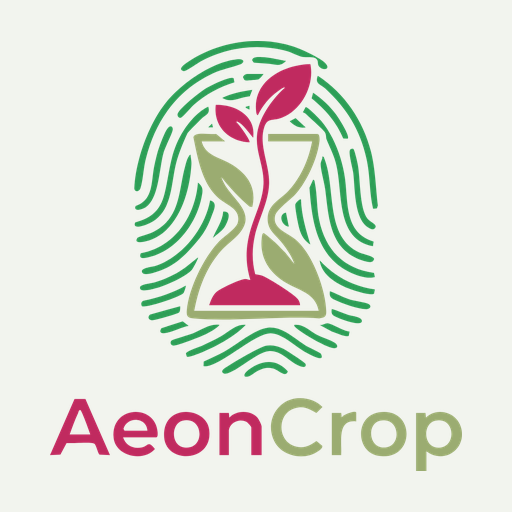
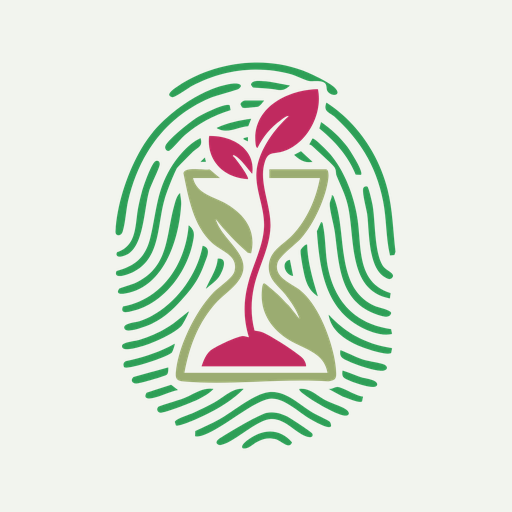
AeonCrop: sin carpetas repetidas en Drive; ícono sin letras e instalador «AeonCrop»
- Buscar-o-crear carpetas de a una en toda la app (subidas, sincronización y «sincronizar
  todo» creaban copias a la vez); las copias que ya existen se juntan solas en la más
  antigua (con sus subcarpetas) y la vacía va a la papelera.
- Cada conexión con Drive queda atada a su cultivo: «sincronizar todo» ya no puede mandar
  lo de un cultivo a la carpeta de otro.
- Ícono del teléfono: la huella y el reloj de arena, sin el nombre.
- Instalador AeonCrop-<versión>.apk (artefacto «aeoncrop-apk»).

Claude-Session: https://claude.ai/code/session_01AQtHHbNtiHMaVCGrhptX3t

Changed region(s): [[0.0938, 0.0625, 0.9062, 0.9375]]

diff --git a/tools/render_aeon_icon.js b/tools/render_aeon_icon.js
@@ -1,0 +1,22 @@
+// tools/render_aeon_icon.js — ícono de AeonCrop para el teléfono: la huella y el reloj de
+// arena con la planta, SIN el nombre (el logo con letras queda dentro de la app).
+//   node tools/render_aeon_icon.js <salida.png> [lado=1024]
+const { chromium } = require("playwright");
+const fs = require("fs");
+const path = require("path");
+(async () => {
+  const [out, N = 1024] = process.argv.slice(2);
+  const svg = fs.readFileSync(path.join(__dirname, "..", "assets", "src", "AeonCrop.svg"), "utf8");
+  const b = await chromium.launch();
+  const p = await b.newPage({ viewport: { width: Number(N), height: Number(N) } });
+  await p.setContent(`<html><body style="margin:0;background:transparent">${svg}</body></html>`);
+  await p.evaluate((N) => {
+    const s = document.querySelector("svg");
+    for (const el of s.querySelectorAll("path,polygon")) if (el.getBBox().y > 175) el.remove();   // el nombre
+    const bb = s.getBBox(), side = Math.max(bb.width, bb.height) * 1.06;
+    s.setAttribute("viewBox", `${bb.x + bb.width / 2 - side / 2} ${bb.y + bb.height / 2 - side / 2} ${side} ${side}`);
+    s.setAttribute("width", N); s.setAttribute("height", N);
+  }, Number(N));
+  await p.screenshot({ path: out, omitBackground: true });
+  await b.close();
+})();

diff --git a/drive_backup.py b/drive_backup.py
@@ -28,6 +28,7 @@ from platform_utils import IS_ANDROID
 
 SCOPE = "https://www.googleapis.com/auth/drive.file"
 ROOT_FOLDER = "PhenoRubus · Imágenes de Fenología"   # raíz antigua (hasta la 1.1.151)
+_FOLDER_LOCK = threading.RLock()     # buscar-o-crear carpetas: de a una (ver _folder)
 FOLDER_MIME = "application/vnd.google-apps.folder"
 API = "https://www.googleapis.com/drive/v3/files"
 UPLOAD = "https://www.googleapis.com/upload/drive/v3/files?uploadType=multipart&fields=id"
@@ -346,8 +347,12 @@ def is_metered() -> bool:
 class DriveBackup:
     TOKEN_TTL = 45 * 60
 
-    def __init__(self, db, authorizer=None, transport=None, metered=is_metered):
+    def __init__(self, db, authorizer=None, transport=None, metered=is_metered, crop=None):
+        import crops
         self.db = db
+        # El cultivo queda fijo: aunque luego se active otro (sincronizar todo), lo de esta
+        # base va siempre a la carpeta de SU módulo.
+        self.crop = crop or crops.current()
         self._authorizer = authorizer
         self.transport = transport or urllib_transport
         self.metered = metered
@@ -686,32 +691,40 @@ class DriveBackup:
         key = f"{parent or 'root'}/{name}"
         if key in cache:
             return cache[key]
-        esc = name.replace("\\", "\\\\").replace("'", "\\'")
-        q = f"name='{esc}' and mimeType='{FOLDER_MIME}' and trashed=false"
-        if parent:
-            q += f" and '{parent}' in parents"
-        found = self._call("GET", f"{API}?" + urllib.parse.urlencode(
-            {"q": q, "fields": "files(id)", "spaces": "drive"})).get("files", [])
-        if found:
-            fid = found[0]["id"]
-        else:
-            meta = {"name": name, "mimeType": FOLDER_MIME}
-            if parent:
-                meta["parents"] = [parent]
-            fid = self._call("POST", f"{API}?fields=id", json.dumps(meta).encode(),
-                             "application/json; charset=UTF-8")["id"]
-        cache[key] = fid
-        self.db.set_setting("drive_folders", cache)
-        return fid
+        # Una sola búsqueda-o-creación a la vez en toda la app: subidas, sincronización y
+        # «sincronizar todo» corren en hilos distintos y, sin esto, cada uno creaba su copia.
+        with _FOLDER_LOCK:
+            cache = self.db.get_setting("drive_folders") or {}
+            if key in cache:
+                return cache[key]
+            fid = self._find_folder(name, parent)
+            if fid is None:
+                meta = {"name": name, "mimeType": FOLDER_MIME}
+                if parent:
+                    meta["parents"] = [parent]
+                fid = self._call("POST", f"{API}?fields=id", json.dumps(meta).encode(),
+                                 "application/json; charset=UTF-8")["id"]
+            cache = self.db.get_setting("drive_folders") or {}
+            cache[key] = fid
+            self.db.set_setting("drive_folders", cache)
+            return fid
 
     def root_id(self) -> str:
         """Carpeta del módulo en Drive: «AeonCrop/<PhenoRubus|PhenoBlue|PhenoCran>».
         Frambuesa: la primera vez, la carpeta antigua «PhenoRubus · Imágenes de Fenología»
         (con todo lo respaldado) se mueve ahí y pasa a llamarse «PhenoRubus»."""
         import crops
-        crop = crops.current()
+        crop = self.crop
         cache = self.db.get_setting("drive_folders") or {}
         key = f"module/{crop.drive_folder}"
+        if key in cache:
+            return cache[key]
+        with _FOLDER_LOCK:
+            return self._root_locked(crop, key)
+
+    def _root_locked(self, crop, key: str) -> str:
+        import crops
+        cache = self.db.get_setting("drive_folders") or {}
         if key in cache:
             return cache[key]
         top = self._find_folder(crops.DRIVE_TOP, None)
@@ -743,13 +756,58 @@ class DriveBackup:
         return fid
 
     def _find_folder(self, name: str, parent: str | None) -> str | None:
+        """La carpeta con ese nombre (la más antigua). Si hay copias repetidas (de versiones
+        que las creaban a la vez desde dos hilos), su contenido pasa a la más antigua y las
+        copias vacías van a la papelera."""
         esc = name.replace("\\", "\\\\").replace("'", "\\'")
         q = f"name='{esc}' and mimeType='{FOLDER_MIME}' and trashed=false"
         if parent:
             q += f" and '{parent}' in parents"
         found = self._call("GET", f"{API}?" + urllib.parse.urlencode(
-            {"q": q, "fields": "files(id)", "spaces": "drive"})).get("files", [])
-        return found[0]["id"] if found else None
+            {"q": q, "fields": "files(id, name, createdTime)", "spaces": "drive",
+             "orderBy": "createdTime"})).get("files", [])
+        if not found:
+            return None
+        found.sort(key=lambda f: f.get("createdTime") or "")
+        keep = found[0]["id"]
+        for dup in [f for f in found[1:] if f.get("name") == name and f["id"] != keep]:
+            try:
+                self._merge_folder(dup["id"], keep)
+            except DriveError as exc:      # se reintenta la próxima vez; nunca frena la subida
+                self.log(f"Drive: no se pudo juntar la carpeta repetida «{name}»: {exc}", error=True)
+        return keep
+
+    def _merge_folder(self, src: str, dst: str) -> None:
+        """Mueve todo lo de `src` a `dst` (juntando también subcarpetas repetidas) y manda
+        `src`, ya vacía, a la papelera."""
+        token = None
+        children = []
+        while True:
+            params = {"q": f"'{src}' in parents and trashed=false",
+                      "fields": "nextPageToken, files(id, name, mimeType)", "pageSize": "1000"}
+            if token:
+                params["pageToken"] = token
+            res = self._call("GET", f"{API}?" + urllib.parse.urlencode(params))
+            children += res.get("files", [])
+            token = res.get("nextPageToken")
+            if not token:
+                break
+        for ch in children:
+            if ch.get("mimeType") == FOLDER_MIME:
+                esc = ch["name"].replace("\\", "\\\\").replace("'", "\\'")
+                same = self._call("GET", f"{API}?" + urllib.parse.urlencode(
+                    {"q": f"name='{esc}' and mimeType='{FOLDER_MIME}' and '{dst}' in parents and trashed=false",
+                     "fields": "files(id)"})).get("files", [])
+                if same:
+                    self._merge_folder(ch["id"], same[0]["id"])
+                    continue
+            self._call("PATCH", f"{API}/{ch['id']}?" + urllib.parse.urlencode(
+                {"addParents": dst, "removeParents": src, "fields": "id"}), b"{}",
+                "application/json; charset=UTF-8")
+        self._call("PATCH", f"{API}/{src}?fields=id", json.dumps({"trashed": True}).encode(),
+                   "application/json; charset=UTF-8")
+        self.db.set_setting("drive_folders", {})      # las rutas en caché pudieron cambiar
+        self.log("Drive: se juntó una carpeta repetida")
 
     def _upload(self, path: str, remote: str) -> str:
         *dirs, fname = remote.split("/")

diff --git a/tests/test_core.py b/tests/test_core.py
@@ -2381,10 +2381,12 @@ def test_drive_root_moves_legacy_folder(db):
     top = tree["old"]["parents"][0]
     assert tree[top]["name"] == "AeonCrop" and tree["old"]["name"] == "PhenoRubus"
     assert drive.root_id() == "old" and patched == ["old"]          # en caché: una sola vez
+    # Cada conexión queda atada a su cultivo: activar otro no cambia su carpeta.
+    crops.activate("arandano")
     try:
-        crops.activate("arandano")
+        assert drive.root_id() == "old"
         db.set_setting("drive_folders", {})
-        blue = drive.root_id()
+        blue = DriveBackup(db, authorizer=Auth(), transport=transport, metered=lambda: False).root_id()
         assert tree[blue] == {"name": "PhenoBlue", "parents": [top]}
     finally:
         crops.activate("frambuesa")
@@ -2470,3 +2472,54 @@ def test_drive_top_folder_renamed_to_aeoncrop(db):
 
     drive = DriveBackup(db, authorizer=Auth(), transport=transport, metered=lambda: False)
     assert drive.root_id() == "rub" and tree["top"]["name"] == "AeonCrop"
+
+
+def test_drive_duplicate_folders_are_merged(db):
+    """Dos «PhenoBlue» (creadas a la vez por dos hilos en versiones anteriores): todo pasa a
+    la más antigua, juntando también las subcarpetas repetidas, y la copia va a la papelera."""
+    import json
+    import urllib.parse
+    import crops
+    from drive_backup import DriveBackup
+
+    tree = {"top": {"name": "AeonCrop", "parents": ["root"], "t": "1"},
+            "b1": {"name": "PhenoBlue", "parents": ["top"], "t": "2"},
+            "b2": {"name": "PhenoBlue", "parents": ["top"], "t": "3"},
+            "s1": {"name": "Sincronización", "parents": ["b1"], "t": "4"},
+            "s2": {"name": "Sincronización", "parents": ["b2"], "t": "5"},
+            "f1": {"name": "a.json", "parents": ["s2"], "t": "6", "file": True},
+            "f2": {"name": "foto.jpg", "parents": ["b2"], "t": "7", "file": True}}
+    FOLDER = "application/vnd.google-apps.folder"
+
+    def transport(method, url, headers, body):
+        u = urllib.parse.urlsplit(url)
+        qs = urllib.parse.parse_qs(u.query)
+        if method == "GET":
+            q = qs["q"][0]
+            par = q.split("' in parents")[0].rsplit("'", 1)[1] if "in parents" in q else None
+            name = q.split("name='")[1].split("' and")[0] if "name='" in q else None
+            hits = [{"id": k, "name": v["name"], "createdTime": v["t"],
+                     "mimeType": "x" if v.get("file") else FOLDER}
+                    for k, v in tree.items() if not v.get("trashed")
+                    and (name is None or v["name"] == name) and (par is None or par in v["parents"])
+                    and (name is None or not v.get("file"))]
+            return 200, json.dumps({"files": hits}).encode()
+        if method == "PATCH":
+            fid = u.path.rsplit("/", 1)[1]
+            meta = json.loads(body or b"{}")
+            if meta.get("trashed"):
+                tree[fid]["trashed"] = True
+            if "addParents" in qs:
+                tree[fid]["parents"] = [qs["addParents"][0]]
+            return 200, b'{"id": "%s"}' % fid.encode()
+        raise AssertionError("no debe crear carpetas")
+
+    class Auth:
+        def get_token(self, interactive, timeout=None):
+            return "t"
+
+    drive = DriveBackup(db, authorizer=Auth(), transport=transport, metered=lambda: False,
+                        crop=crops.get("arandano"))
+    assert drive.root_id() == "b1"
+    assert tree["b2"].get("trashed") and tree["s2"].get("trashed")
+    assert tree["f1"]["parents"] == ["s1"] and tree["f2"]["parents"] == ["b1"]

diff --git a/tools/make_aeon_assets.py b/tools/make_aeon_assets.py
@@ -11,7 +11,9 @@ Imágenes de AeonCrop (la app Lab) a partir de los SVG de assets/src:
   PhenoCran; fruit.png / fruit_gris.png: el fruto solo (vista previa).
 * assets/ui/aeon_ia.png y aeon_iaplus.png: IA e IA+ (dibujo blanco teñido de celeste)
   sobre la burbuja azul con estrellas, centrada en el cerebro; aeon_ia_glow.png: su brillo neón.
-* assets/icon_aeoncrop.png: ícono de la app.
+* assets/icon_aeoncrop.png: ícono de la app en el teléfono, SIN el nombre (la huella y el
+  reloj de arena: `node tools/render_aeon_icon.js /tmp/marca.png` y luego este script con
+  esa imagen como segundo argumento).
 """
 from __future__ import annotations
 
@@ -111,9 +113,10 @@ def main(src: str):
     glow.alpha_composite(g, ((420 - g.width) // 2, (420 - g.height) // 2))
     glow.save(os.path.join(UI, "aeon_ia_glow.png"))
     on_blob(tint(load("IAplus"), (150, 210, 255))).save(os.path.join(UI, "aeon_iaplus.png"))
-    icon = Image.new("RGBA", (512, 512), (242, 244, 238, 255))
-    icon.alpha_composite(square(load("AeonCrop"), 512, .08))
-    icon.convert("RGB").save(os.path.join(ROOT, "assets", "icon_aeoncrop.png"))
+    if len(sys.argv) > 2:      # ícono sin letras (tools/render_aeon_icon.js)
+        icon = Image.new("RGBA", (512, 512), (242, 244, 238, 255))
+        icon.alpha_composite(square(Image.open(sys.argv[2]).convert("RGBA"), 512, .10))
+        icon.convert("RGB").save(os.path.join(ROOT, "assets", "icon_aeoncrop.png"))
     presplash()
 
 

diff --git a/main.py b/main.py
@@ -914,9 +914,11 @@ class FenoRubusApp(MDApp):
                             res = self.sync.run(manual=True)
                         else:
                             crops.activate(crop.id)
-                            wss = Workspaces(get_data_dir())
+                            data_dir = get_data_dir()
+                            wss = Workspaces(data_dir)
                             db = wss.open(wss.last())
-                            res = DriveSync(DriveBackup(db), wss, wss.open, get_data_dir()).run(manual=True)
+                            crops.activate(loaded)       # el resto de la app sigue en su cultivo
+                            res = DriveSync(DriveBackup(db, crop=crop), wss, wss.open, data_dir).run(manual=True)
                         msgs.append(f"{crop.app}: {summary(res)}")
                     except Exception as exc:  # noqa: BLE001
                         msgs.append(f"{crop.app}: {explain(str(exc))}")
